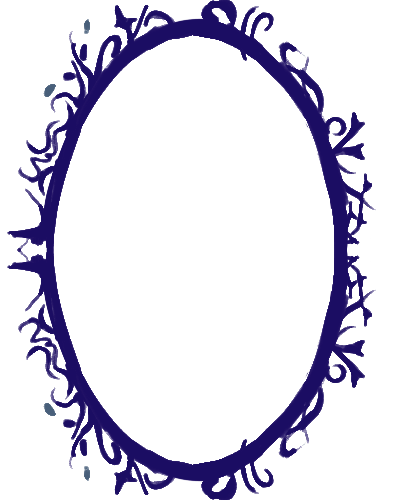
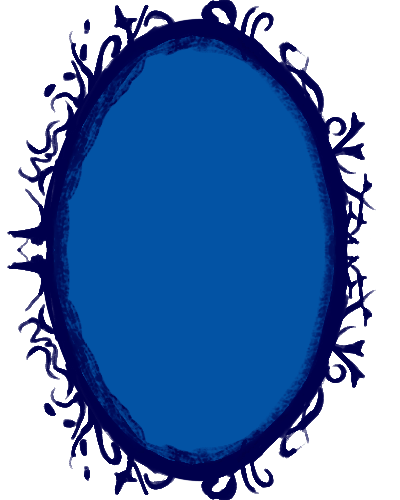
update mirror

diff --git a/js/lib/basement/mirrorReflection.js b/js/lib/basement/mirrorReflection.js
@@ -1,0 +1,169 @@
+/**
+ * Mirror Reflection Effect
+ * Shows self4.png in the mirror with static glitch overlay
+ */
+
+export function initMirrorReflection(selfInstance, selfShader) {
+  const mirrorContainer = document.querySelector('.mirror-container');
+  const mirrorReflection = document.getElementById('mirrorReflection');
+  
+  if (!mirrorContainer || !mirrorReflection) {
+    console.error('Mirror elements not found');
+    return;
+  }
+  
+  // Use purpleStatic from window (set in basement.html)
+  const purpleStatic = window.purpleStatic;
+  
+  // Create a separate static overlay canvas element
+  // Place it inside mirrorReflection to match the reflection bounds
+  const staticOverlay = document.createElement('div');
+  staticOverlay.className = 'mirror-static-overlay';
+  mirrorReflection.appendChild(staticOverlay);
+  
+  // Function to check if self is within mirror's horizontal range
+  const isSelfInMirrorRange = () => {
+    const mirrorRect = mirrorContainer.getBoundingClientRect();
+    const selfContainer = document.getElementById('self-shader-container');
+    
+    if (!selfContainer) return false;
+    
+    const selfContainerRect = selfContainer.getBoundingClientRect();
+    // Self's x position is relative to center of canvas (0,0 in WEBGL)
+    // Canvas center is at screen center, so self's screen position = screen center + self.x
+    const screenCenterX = window.innerWidth / 2;
+    const selfScreenX = screenCenterX + selfInstance.x;
+    
+    // Get self's width (scaled)
+    const selfImage = selfInstance.getCurrentImage();
+    if (!selfImage || selfImage.width === 0) return false;
+    
+    const selfWidth = selfImage.width * selfInstance.scale;
+    const selfLeft = selfScreenX - selfWidth / 2;
+    const selfRight = selfScreenX + selfWidth / 2;
+    
+    // Check if self overlaps with mirror's horizontal range
+    const mirrorLeft = mirrorRect.left;
+    const mirrorRight = mirrorRect.right;
+    
+    return (selfRight >= mirrorLeft && selfLeft <= mirrorRight);
+  };
+  
+  // Setup p5 sketch for reflection (image only)
+  const sketch = function(p) {
+    let self4Image = null;
+    
+    p.preload = function() {
+      // Load self4.png for mirror reflection
+      self4Image = p.loadImage('/assets/images/self/self4.PNG');
+    };
+    
+    p.setup = function() {
+      const rect = mirrorContainer.getBoundingClientRect();
+      const canvasWidth = rect.width > 0 ? rect.width : window.innerWidth * 0.1;
+      const canvasHeight = rect.height > 0 ? rect.height : window.innerHeight * 0.3;
+      
+      // Main canvas for the image
+      const canvas = p.createCanvas(canvasWidth, canvasHeight, p.WEBGL);
+      canvas.parent(mirrorReflection);
+      p.textureMode(p.NORMAL);
+    };
+    
+    p.draw = function() {
+      p.clear();
+      
+      if (!self4Image || self4Image.width === 0) {
+        return;
+      }
+      
+      // Check if self is in mirror range
+      const inRange = isSelfInMirrorRange();
+      
+      // Update active class for CSS transition
+      if (inRange) {
+        mirrorReflection.classList.add('active');
+      } else {
+        mirrorReflection.classList.remove('active');
+      }
+      
+      // Always draw the image (CSS opacity handles the fade)
+      // This allows the CSS transition to work properly
+      // Calculate scale
+      const scale = selfInstance.scale;
+      const scaledWidth = self4Image.width * scale;
+      const scaledHeight = self4Image.height * scale;
+      
+      // Position image so bottom 1/3 is visible in mirror
+      // In WEBGL, Y=0 is center, positive Y is up
+      // We want the bottom 1/3 of the image to be in the mirror
+      // So we translate down by (scaledHeight/2 - scaledHeight/6) = scaledHeight/3
+      // This positions the image so its bottom third is centered at Y=0
+      const translateY = scaledHeight / 3;
+      
+      // Draw the image
+      p.push();
+      p.translate(0, translateY, 0);
+      p.noStroke();
+      p.texture(self4Image);
+      p.rectMode(p.CENTER);
+      p.rect(0, 0, scaledWidth, scaledHeight);
+      p.pop();
+    };
+    
+    p.windowResized = function() {
+      const rect = mirrorContainer.getBoundingClientRect();
+      if (rect.width > 0 && rect.height > 0) {
+        p.resizeCanvas(rect.width, rect.height);
+      }
+    };
+  };
+  
+  // Start the reflection sketch
+  new p5(sketch);
+  
+  // Setup separate static overlay sketch with purple static
+  // Wait a bit to ensure mirror container has dimensions
+  setTimeout(() => {
+    if (purpleStatic) {
+      const staticSketch = function(p) {
+        p.setup = function() {
+          const rect = mirrorContainer.getBoundingClientRect();
+          // Match the exact dimensions of the mirror reflection
+          let canvasWidth = rect.width;
+          let canvasHeight = rect.height;
+          
+          // Fallback if dimensions are still 0
+          if (canvasWidth === 0 || canvasHeight === 0) {
+            canvasWidth = window.innerWidth * 0.1;
+            canvasHeight = window.innerHeight * 0.3;
+          }
+          
+          const canvas = p.createCanvas(canvasWidth, canvasHeight);
+          canvas.parent(staticOverlay);
+          p.pixelDensity(1);
+          console.log('Static overlay canvas created:', canvasWidth, canvasHeight, 'Container rect:', rect);
+        };
+        
+        p.draw = function() {
+          if (purpleStatic) {
+            purpleStatic(p);
+          }
+        };
+        
+        p.windowResized = function() {
+          const rect = mirrorContainer.getBoundingClientRect();
+          if (rect.width > 0 && rect.height > 0) {
+            p.resizeCanvas(rect.width, rect.height);
+          }
+        };
+      };
+      
+      new p5(staticSketch);
+      console.log('Static overlay sketch initialized');
+    } else {
+      console.error('purpleStatic not available');
+    }
+  }, 100);
+  
+  console.log('Mirror reflection initialized');
+}

diff --git a/style/basement/mirror.css b/style/basement/mirror.css
@@ -3,7 +3,7 @@
 .mirror-container {
   position: fixed;
   top: 55%;
-  left: 35%;
+  left: 15%;
   transform: translateY(-50%);
   z-index: 400;
   height: 30vh; /* 1/3 of self size (self is 30vh) */
@@ -11,12 +11,123 @@
   display: flex;
   align-items: center;
   justify-content: center;
+  pointer-events: none;
 }
 
-.mirror-container img {
+.mirror-glass-reflection {
+  position: absolute;
+  width: 100%;
+  height: 100%;
+  top: 0;
+  left: 0;
+  z-index: 0;
+  background: linear-gradient(
+    135deg,
+    rgba(0, 255, 255, 0.3) 0%,
+    rgba(0, 200, 255, 0.4) 25%,
+    rgba(64, 224, 208, 0.35) 50%,
+    rgba(0, 200, 255, 0.4) 75%,
+    rgba(0, 255, 255, 0.3) 100%
+  );
+  border-radius: 50%;
+  filter: blur(8px);
+  animation: liquify-wave 8s ease-in-out infinite;
+  opacity: 0.6;
+  pointer-events: none;
+}
+
+@keyframes liquify-wave {
+  0%, 100% {
+    transform: translate(0, 0) scale(1);
+    border-radius: 50% 40% 60% 30%;
+  }
+  25% {
+    transform: translate(-2%, 2%) scale(1.02);
+    border-radius: 60% 30% 50% 40%;
+  }
+  50% {
+    transform: translate(2%, -2%) scale(0.98);
+    border-radius: 40% 60% 30% 50%;
+  }
+  75% {
+    transform: translate(-1%, -1%) scale(1.01);
+    border-radius: 50% 30% 60% 40%;
+  }
+}
+
+.mirror-frame {
   height: 100%;
   width: auto;
   object-fit: contain;
   display: block;
+  position: relative;
+  z-index: 1;
+  pointer-events: none;
 }
+
+/* Static overlay - only covers the mirror reflection image */
+.mirror-static-overlay {
+  position: absolute;
+  top: 0;
+  left: 0;
+  width: 100%;
+  height: 100%;
+  z-index: 3; /* Above the reflection canvas (z-index 1) but within reflection container */
+  pointer-events: none;
+  mix-blend-mode: color-dodge;
+  opacity: 0.9;
+  /* Match the reflection's mask so static only shows where reflection shows */
+  mask-image: radial-gradient(circle at center, rgba(0,0,0,1) 0%, rgba(0,0,0,1) 30%, rgba(0,0,0,0.6) 50%, rgba(0,0,0,0.2) 70%, rgba(0,0,0,0) 100%);
+  -webkit-mask-image: radial-gradient(circle at center, rgba(0,0,0,1) 0%, rgba(0,0,0,1) 30%, rgba(0,0,0,0.6) 50%, rgba(0,0,0,0.5) 70%, rgba(0,0,0,0) 100%);
+  /* Ensure visibility */
+  display: block !important;
+  visibility: visible !important;
+}
+
+.mirror-reflection {
+  position: absolute;
+  width: 100%;
+  height: 100%;
+  top: 0;
+  left: 0;
+  z-index: 2;
+  opacity: 0; /* Hidden by default */
+  transition: opacity 0.5s ease-out; /* Smooth fade out */
+  overflow: hidden;
+  display: flex;
+  align-items: flex-end;
+  justify-content: center;
+  pointer-events: none;
+  /* Circular fade from center */
+  mask-image: radial-gradient(circle at center, rgba(0,0,0,1) 0%, rgba(0,0,0,1) 30%, rgba(0,0,0,0.6) 50%, rgba(0,0,0,0.2) 70%, rgba(0,0,0,0) 100%);
+  -webkit-mask-image: radial-gradient(circle at center, rgba(0,0,0,1) 0%, rgba(0,0,0,1) 30%, rgba(0,0,0,0.6) 50%, rgba(0,0,0,0.0) 70%, rgba(0,0,0,0) 100%);
+}
+
+.mirror-reflection.active {
+  opacity: 0.25; /* Show when self is in range */
+  transition: opacity 0.3s ease-in; /* Faster fade in */
+}
+
+.mirror-reflection canvas {
+  position: absolute;
+  top: 0;
+  left: 0;
+  width: 100% !important;
+  height: 100% !important;
+  display: block !important;
+  pointer-events: none;
+  z-index: 1;
+}
+
+
+.mirror-static-overlay canvas {
+  position: absolute;
+  top: 0;
+  left: 0;
+  width: 100% !important;
+  height: 100% !important;
+  display: block !important;
+  pointer-events: none;
+}
+
 

diff --git a/pages/basement.html b/pages/basement.html
@@ -85,6 +85,7 @@
     
     <!-- Mirror on left wall -->
     <div class="mirror-container">
+      <div class="mirror-glass-reflection"></div>
       <div class="mirror-reflection" id="mirrorReflection"></div>
       <img src="../assets/images/mirror.png" alt="Mirror" class="mirror-frame">
     </div>
@@ -107,8 +108,15 @@
     <script type="module">
       import { initPebbleFloor } from '../js/lib/desktop/pebbleFloor.js';
       import { pureSnow } from '../js/effects/glitch/pureSnow.js';
+      import { purpleStatic } from '../js/effects/glitch/purpleStatic.js';
       import { initSelf0Shader } from '../js/lib/selfmovement/self0Shader.js';
       import { initStairShader } from '../js/lib/basement/stairShader.js';
+      import { initMirrorReflection } from '../js/lib/basement/mirrorReflection.js';
+      
+      // Make pureSnow available globally for basement glitch
+      window.pureSnow = pureSnow;
+      // Make purpleStatic available globally for mirror reflection
+      window.purpleStatic = purpleStatic;
       
       // Wait for everything to load
       window.addEventListener('load', async () => {
@@ -139,6 +147,19 @@
         
         // Initialize self0 shader with GUI
         initSelf0Shader();
+        
+        // Wait a bit for self to be initialized, then setup mirror reflection
+        setTimeout(() => {
+          if (window.__selfInstance && window.__selfShader) {
+            console.log('Initializing mirror reflection with self instance:', window.__selfInstance);
+            initMirrorReflection(window.__selfInstance, window.__selfShader);
+          } else {
+            console.error('Self instance or shader not available:', {
+              instance: window.__selfInstance,
+              shader: window.__selfShader
+            });
+          }
+        }, 1000);
         
         // Initialize stair shader
         initStairShader();

diff --git a/js/lib/selfmovement/self0Shader.js b/js/lib/selfmovement/self0Shader.js
@@ -6,6 +6,10 @@ export function initSelf0Shader() {
   let gui;
   let self; // Self character instance
   
+  // Export self and shader for mirror reflection
+  window.__selfInstance = null;
+  window.__selfShader = null;
+  
   const params = {
     flicker: 1.0,
     glitch: 1.0,
@@ -19,6 +23,8 @@ export function initSelf0Shader() {
       shader = p.loadShader('/shaders/self0.vert', '/shaders/self0.frag');
       // Self will load its own images
       self = new Self(p);
+      // Export for mirror reflection
+      window.__selfShader = shader;
       console.log('Shader loaded:', shader);
     };
     
@@ -38,6 +44,8 @@ export function initSelf0Shader() {
       
       // Initialize Self at center (0, 0 in WEBGL coordinates)
       self = new Self(p);
+      // Export for mirror reflection
+      window.__selfInstance = self;
       
       // Initialize dat.GUI
       gui = new dat.GUI({ autoPlace: false });

diff --git a/js/lib/selfmovement/Self.js b/js/lib/selfmovement/Self.js
@@ -3,7 +3,7 @@ export class Self {
     this.p = p5Instance;
     this.x = 0; // Position relative to center
     this.y = 0;
-    this.speed = 5; // Movement speed in pixels per frame
+    this.speed = 12; // Movement speed in pixels per frame
     this.isMoving = false;
     this.direction = 1; // 1 for right, -1 for left
     this.currentFrame = 0;
